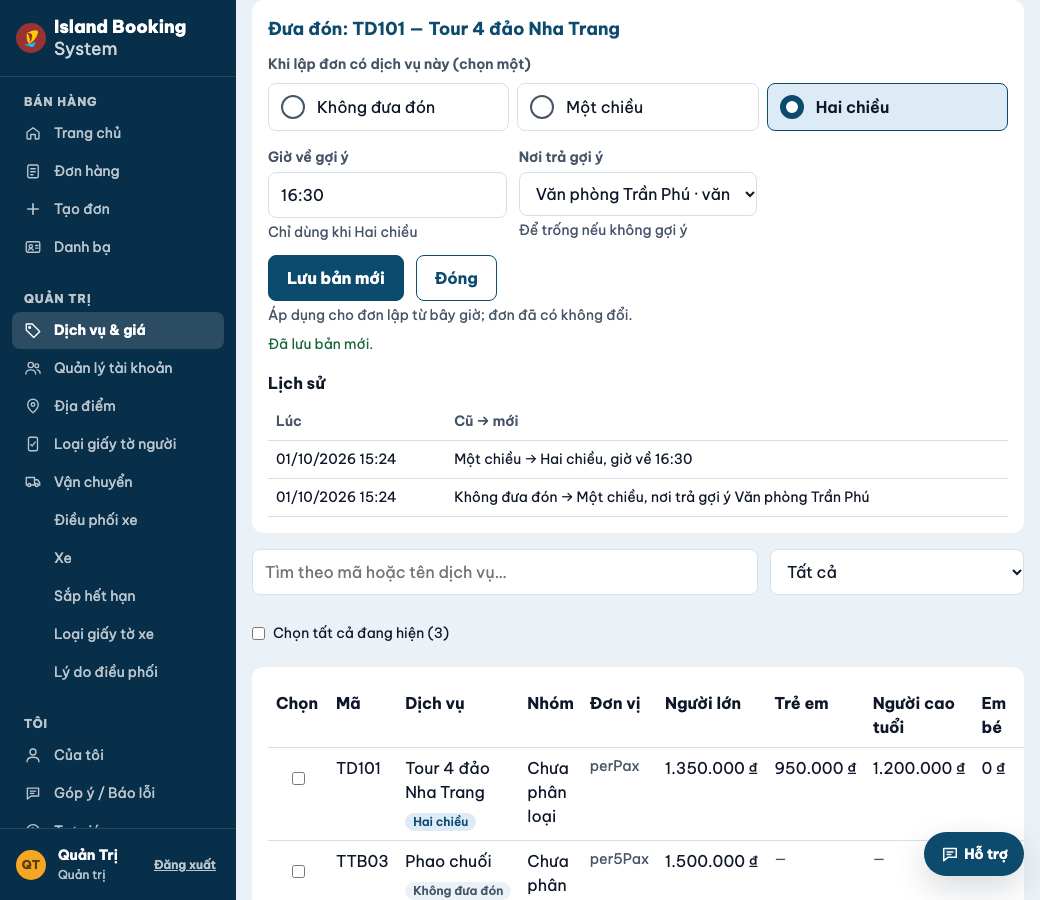
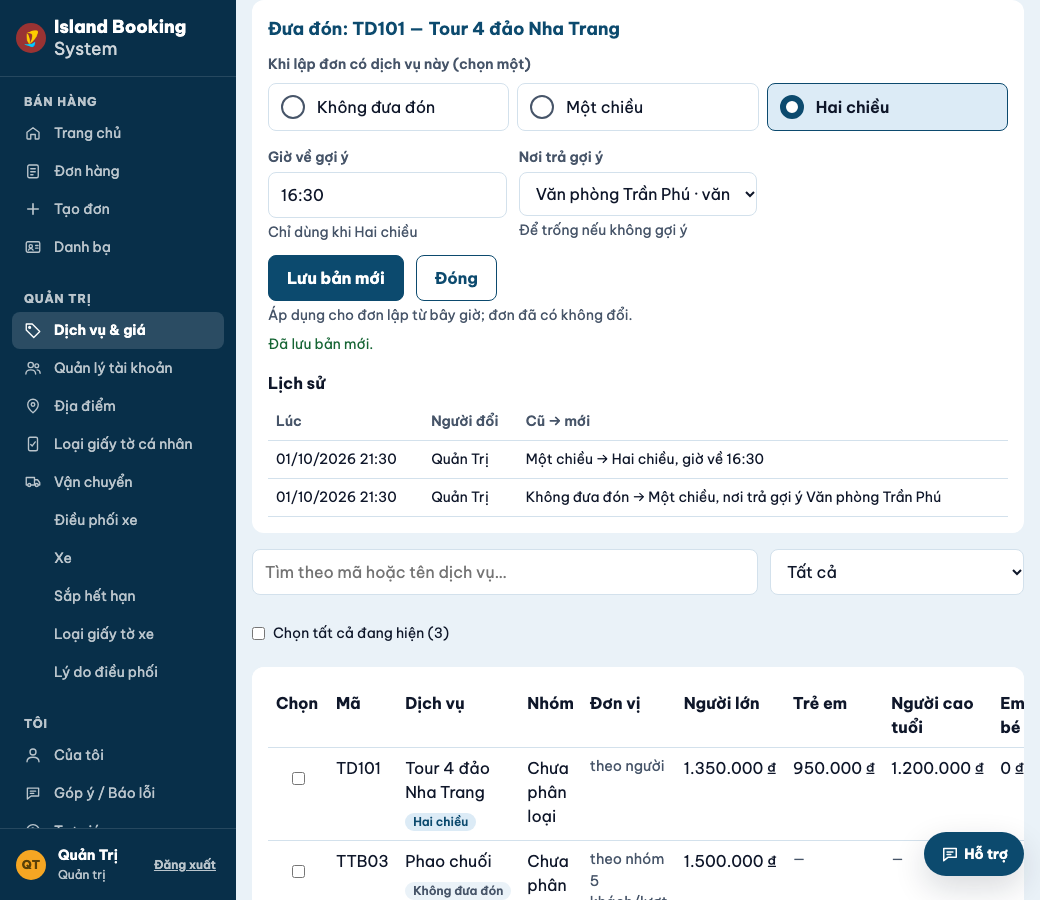
Kịch bản Chrome: số hiệu chuyến bay, cột Người đổi và đơn vị ở Danh mục
so-hieu-chuyen-bay-smoke.mjs (3 bước): chip "✈ VN1553" trên thẻ chặng
bảng điều phối 390 + 1040 và dưới điểm đón ở thẻ chuyến tài xế (cả trước
xuất bến — tài xế xem từ trước, nên thêm số hiệu vào veDiemTruoc; chip
thẳng cột với tên nơi). danh-muc-dua-don-smoke.mjs cập nhật theo cột
"Người đổi" + đơn vị chữ người đọc; đọc API bằng phiên của trang (luật một
máy đá cookie cũ làm bước 3 đỏ sẵn).

Claude-Session: https://claude.ai/code/session_01BkWKGjwsQ759XQaz7y3jdJ

diff --git a/web/cuoc-chuyen.ts b/web/cuoc-chuyen.ts
@@ -88,7 +88,7 @@ function ve(): void {
   const diem = veDiemChay({
     diem: r.diem, suat: r.suat, trangThai: c.trangThai, ngayXem: ngay, coNut: chayDuoc, onLenh: lenhDiem,
     choGui: new Set([...choGui.keys()]),
-    phuDiem: (b) => ({ ben: nutThuTu(b), duoi: [...bayCua(b), ...lienHeCua(b)] }),
+    phuDiem: (b) => ({ ben: nutThuTu(b), duoi: [...bayCua(b, r.suat), ...lienHeCua(b)] }),
   });
   // "Bấm lại" ở dòng khách chưa gửi được.
   for (const el of diem) {
@@ -125,10 +125,10 @@ function ve(): void {
   dayEl.hidden = true;
 }
 
-/** Số hiệu chuyến bay của khách lên ở điểm đón này (ADR-0055 C3 — có mọi lúc, không chỉ ra người). */
-function bayCua(b: BuocDiem): Child[] {
+/** Số hiệu chuyến bay của khách lên ở điểm đón này (ADR-0055 C3 — có mọi lúc, không chỉ ra người): cả trước xuất bến lẫn lúc chạy. */
+function bayCua(b: BuocDiem, suat: CuocChiTietResponse["suat"]): Child[] {
   if (b.diem.loai !== "PICKUP") return [];
-  const ds = soHieuTaiDiemDon(duLieu!.suat, b.diem.id);
+  const ds = soHieuTaiDiemDon(suat, b.diem.id);
   return ds.length ? [h("div", { class: "dp-run-bay" }, ...ds.map((x) => h("span", { class: "chip chip-code" }, `✈ ${x}`)))] : [];
 }
 
@@ -227,7 +227,7 @@ function veDiemTruoc(r: CuocChiTietResponse): HTMLElement[] {
     phuDiem: (b) => {
       const d = theoId.get(b.diem.id)!;
       const hen = d.loai === "DROPOFF" && d.gioHen ? `Hẹn ${d.gioHen.gio} · ` : "";
-      return { duoi: [h("div", { class: "dp-note dp-cc-so-nguoi" }, `${hen}${d.soNguoi} khách`)] };
+      return { duoi: [...bayCua(b, r.suat), h("div", { class: "dp-note dp-cc-so-nguoi" }, `${hen}${d.soNguoi} khách`)] };
     },
   });
 }

diff --git a/public/app.css b/public/app.css
@@ -2046,7 +2046,7 @@ body.login-page main.login { display: flex; flex-direction: column; height: 100%
 .dp-run-bo { font-size: var(--fs-label); }
 .dp-run-lien-he { display: flex; align-items: center; gap: var(--s2); padding: 0 var(--s4); font-size: var(--fs-label); border-bottom: 1px solid var(--c-border); }
 .dp-run-lien-he a { display: flex; align-items: center; min-height: var(--tap-min); margin-left: auto; font-weight: 700; white-space: nowrap; }
-.dp-run-bay { display: flex; flex-wrap: wrap; gap: var(--s2); padding: var(--s2) var(--s4); border-bottom: 1px solid var(--c-border); }
+.dp-run-bay { display: flex; flex-wrap: wrap; gap: var(--s2); padding: 0 var(--s4) var(--s2) calc(var(--s4) + var(--dp-run-so) + var(--s3)); } /* số hiệu chuyến bay dưới điểm đón — thẳng cột với tên nơi */
 .dp-run-foot { display: flex; flex-direction: column; gap: var(--s2); padding: var(--s3) var(--s4); }
 .dp-run-foot .dp-run-btn { width: 100%; min-height: var(--h-field); font-size: var(--fs-vc-md); }
 .dp-khach { display: flex; flex-direction: column; gap: var(--s2); padding: var(--s2) var(--s4); border-bottom: 1px solid var(--c-border); }
